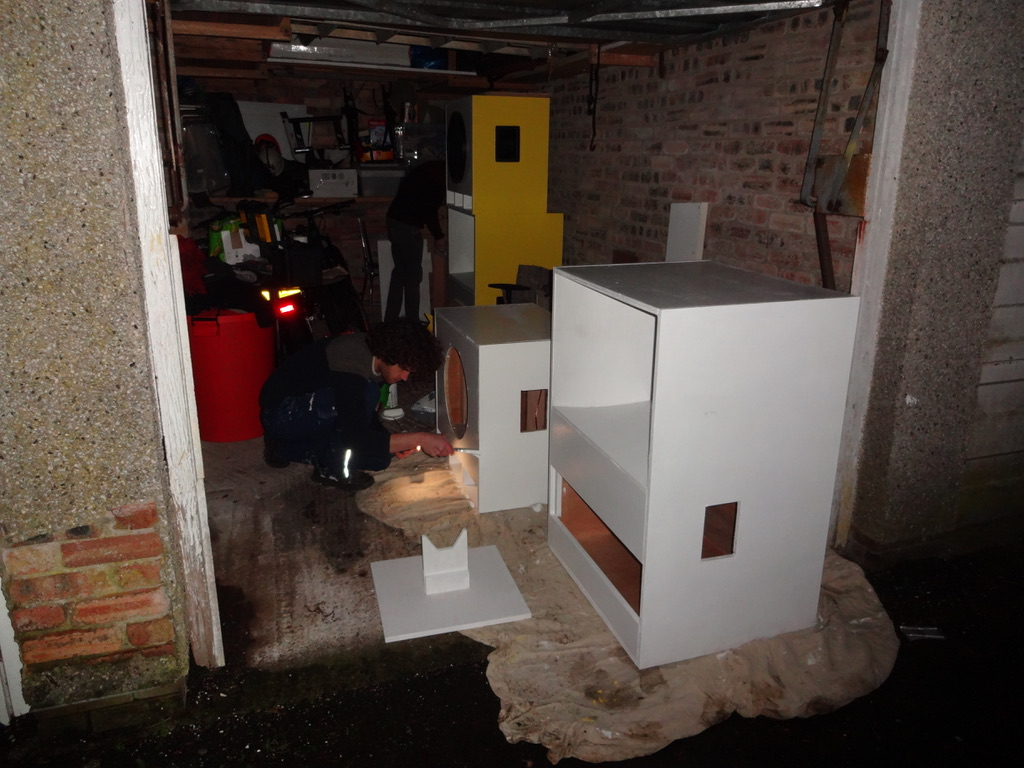
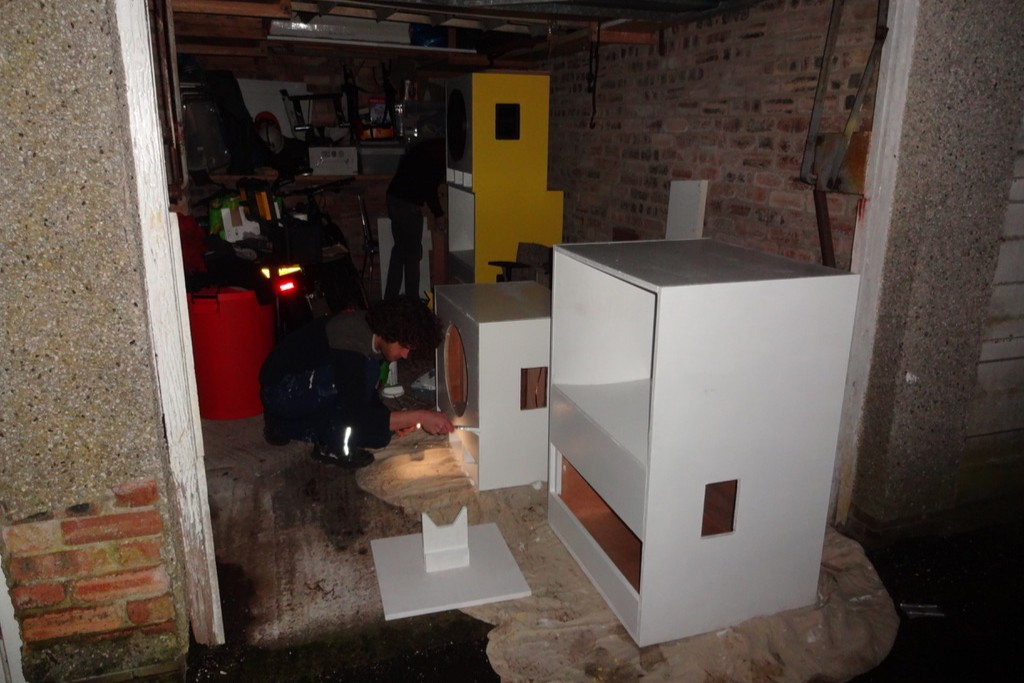
adjusting aspect ratios of images

diff --git a/index.html b/index.html
@@ -369,7 +369,7 @@
 
 
   <section class="mix">
-    <h2>Previous party recording</h2>
+    <h2>Warm up mix</h2>
     <iframe width="100%" height="120" src="https://player-widget.mixcloud.com/widget/iframe/?hide_cover=1&feed=%2FCoorie_Doon%2Fcoorie-doon-220225-civic-house%2F" frameborder="0" allow="encrypted-media; fullscreen; autoplay; idle-detection; speaker-selection; web-share;" ></iframe>
   </section>
 
@@ -393,11 +393,12 @@
   </footer>
   <script>
   const images = [
+    'https://raw.githubusercontent.com/anotherpeopleplace/anotherpeopleplace.github.io/main/images/gallery1.jpg',
     'https://raw.githubusercontent.com/anotherpeopleplace/anotherpeopleplace.github.io/main/images/gallery2.jpg',
     'https://raw.githubusercontent.com/anotherpeopleplace/anotherpeopleplace.github.io/main/images/gallery3.jpg',
-    'https://raw.githubusercontent.com/anotherpeopleplace/anotherpeopleplace.github.io/main/images/gallery4.jpg',
+    'https://raw.githubusercontent.com/anotherpeopleplace/anotherpeopleplace.github.io/refs/heads/main/images/gallery4.jpeg',
     'https://raw.githubusercontent.com/anotherpeopleplace/anotherpeopleplace.github.io/main/images/gallery5.jpg',
-    'https://raw.githubusercontent.com/anotherpeopleplace/anotherpeopleplace.github.io/main/images/gallery6.jpg',
+    'https://raw.githubusercontent.com/anotherpeopleplace/anotherpeopleplace.github.io/refs/heads/main/images/gallery6.jpeg',
     'https://raw.githubusercontent.com/anotherpeopleplace/anotherpeopleplace.github.io/main/images/gallery7.jpg'
   ];
 
